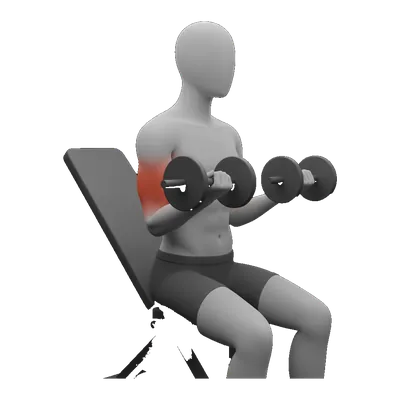
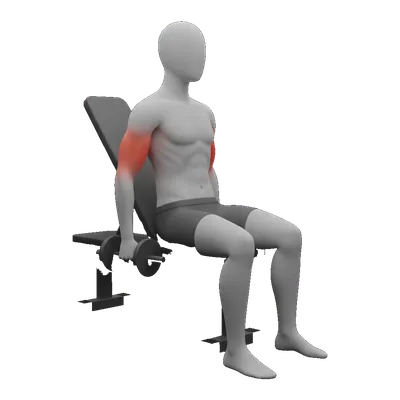
fix(illustrations): les neuf exercices aux halteres sont refaits
Cinq etaient dessines avec une barre, plus le curl marteau en prise
supination. Tous refaits, avec ce qui a marche a chaque fois : decrire
l'OBJET, pas le nommer.

  shrug            barre       -> deux halteres aux hanches
  floor press      barre       -> deux halteres au-dessus de la poitrine
  curl incline     barre       -> deux petits halteres, un par hanche
  curl marteau     prise curl  -> halteres alignes sur l'avant-bras
  extension tri.   vue de face -> vue de dos, rouge sur les triceps

Pour le curl marteau, « paumes face a face » ne suffisait pas : c'est
l'ORIENTATION de l'haltere qui fait la prise marteau. Dire que la
poignee court d'avant en arriere, disques vus de profil l'un derriere
l'autre, a regle le probleme du premier coup.

L'extension triceps a demande quatre essais et n'est pas parfaite : le
modele oscille entre une barre avec le rouge parfait et deux halteres
avec le rouge qui deborde. Jamais l'haltere unique tenu a deux mains.
L'image livree est la seconde — materiel de la bonne famille, vue de
dos, rouge sur les triceps. La limite est ecrite dans le code, a cote
de la consigne, qui reste celle de l'exercice reel : on ne reecrit pas
la specification pour qu'elle ressemble au resultat.

82 illustrations pour 82 exercices, aucune manquante, aucune orpheline.

Changed region(s): [[0.15, 0.03, 0.84, 0.96], [0.45, 0.87, 0.54, 0.96]]

diff --git a/pwa/tools/build_exercise_prompts.py b/pwa/tools/build_exercise_prompts.py
@@ -191,18 +191,26 @@ GESTES = {
     # interdisait de la recopier. La geometrie est ce qui marche — deux
     # objets courts, un espace vide entre les mains — la ou « ce n'est pas
     # une barre » n'avait jamais rien donne.
-    "Curl marteau": "standing, holding TWO SEPARATE SHORT DUMBBELLS, one in "
-                    "each hand, with a clear empty gap between the two hands "
-                    "— nothing connects them. NEUTRAL grip: the palms face "
-                    "EACH OTHER and the thumbs point UP, as if holding two "
-                    "hammers. The palms do NOT face upwards. Elbows pinned "
-                    "to the sides, forearms curled up to chest height",
+    "Curl marteau": "standing, a small dumbbell in each hand — a short "
+                    "handle with one small disc at each end, held entirely "
+                    "inside the closed hand, the two far apart with the "
+                    "torso between them. HAMMER GRIP: each dumbbell is "
+                    "turned so its handle runs FRONT-TO-BACK, in line with "
+                    "the forearm, the way you would hold a hammer. The discs "
+                    "are seen edge-on from the front, one in front of the "
+                    "other, NOT side by side across the body. Palms face "
+                    "each other, thumbs on top. Elbows pinned to the sides, "
+                    "forearms curled up to chest height",
     "Curl incliné haltères": "sitting leaning back on a bench inclined at "
-                             "about 45 degrees, holding TWO SEPARATE SHORT "
-                             "DUMBBELLS, one in each hand, with a clear empty "
-                             "gap between the hands — nothing connects them. "
-                             "Arms hang straight down behind the torso, then "
-                             "curl up, palms facing up",
+                             "about 45 degrees. In EACH hand, a small "
+                             "dumbbell: a short handle no longer than the "
+                             "width of a fist, with one small disc at each "
+                             "end, held entirely INSIDE the closed hand. The "
+                             "two dumbbells are far apart, one hanging beside "
+                             "each hip, with the whole torso between them. "
+                             "There is NO long bar crossing the body and the "
+                             "hands do NOT hold the same object. Arms hang "
+                             "down, then curl up, palms facing up",
     "Shrug": "standing upright, holding TWO SEPARATE SHORT DUMBBELLS, one in "
              "each hand hanging at arm's length beside the hips, with a clear "
              "empty gap between the hands — nothing connects them. Shoulders "
@@ -212,12 +220,25 @@ GESTES = {
                             "in each hand, pressed straight up above the "
                             "chest. Nothing connects the two hands, and the "
                             "elbows rest on the floor at the bottom",
-    "Extension triceps haltère": "standing, holding ONE single SHORT DUMBBELL "
-                                 "with BOTH hands together, raised behind the "
-                                 "head; elbows point up and stay close to the "
-                                 "ears while the forearms lower the dumbbell "
-                                 "behind the neck. There is no barbell and no "
-                                 "second dumbbell",
+    # Quatre essais sur celui-ci, et le modèle oscille : soit une barre
+    # avec le rouge parfaitement posé sur les triceps, soit deux haltères
+    # avec le rouge qui déborde sur l'arrière d'épaule. Jamais l'haltère
+    # unique tenu à deux mains. La consigne ci-dessous reste la bonne —
+    # c'est l'exercice tel qu'il se fait — mais l'image livrée est
+    # l'approximation à deux haltères : matériel de la bonne famille, vue
+    # de dos, rouge sur les triceps. Assez juste à 60 px, et on s'arrête là.
+    "Extension triceps haltère": "standing with the BACK TURNED to the "
+                                 "camera — we see the mannequin's back and "
+                                 "shoulder blades, never its chest. "
+                                 "The two hands are CUPPED TOGETHER around "
+                                 "the single upper disc of ONE small "
+                                 "dumbbell held VERTICALLY behind the head, "
+                                 "the way you hold a mug with both hands. "
+                                 "The whole weight is no wider than the head "
+                                 "and NOTHING extends sideways beyond the "
+                                 "hands — no bar, no disc near either "
+                                 "shoulder. Elbows point up, close to the "
+                                 "ears.",
     # Ceux-la sont sortis JUSTES, mais sur la seule description francaise :
     # rien ne garantissait le materiel. On l'ecrit pour que ca ne depende
     # plus de la chance a la prochaine generation.

diff --git a/pwa/tests/test_illustrations.py b/pwa/tests/test_illustrations.py
@@ -542,9 +542,12 @@ def test_le_curl_marteau_precise_sa_prise():
     """Sa particularité EST la prise : paumes face à face, pouces vers le
     haut. En supination, c'est un curl classique, pas un curl marteau."""
     p = _prompts()["Curl marteau"]["prompt"].lower()
-    assert "neutral grip" in p
-    assert "thumbs point up" in p
-    assert "do not face upwards" in p
+    assert "hammer grip" in p
+    # Ce qui fait la prise marteau, c'est l'ORIENTATION de l'haltère, pas
+    # seulement celle de la paume : la première tentative ne parlait que
+    # des paumes, et l'haltère est ressorti en travers du corps.
+    assert "front-to-back" in p
+    assert "thumbs on top" in p
 
 
 @pytest.mark.parametrize("cle,attendu", [
